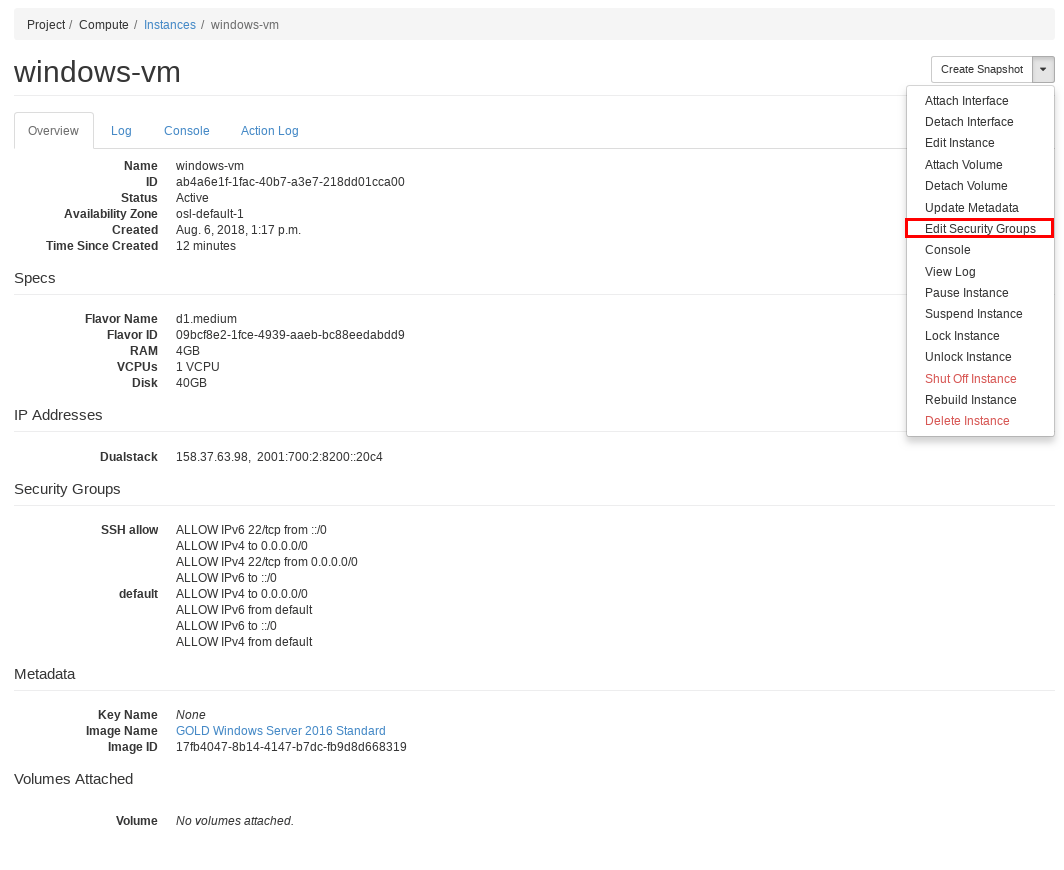
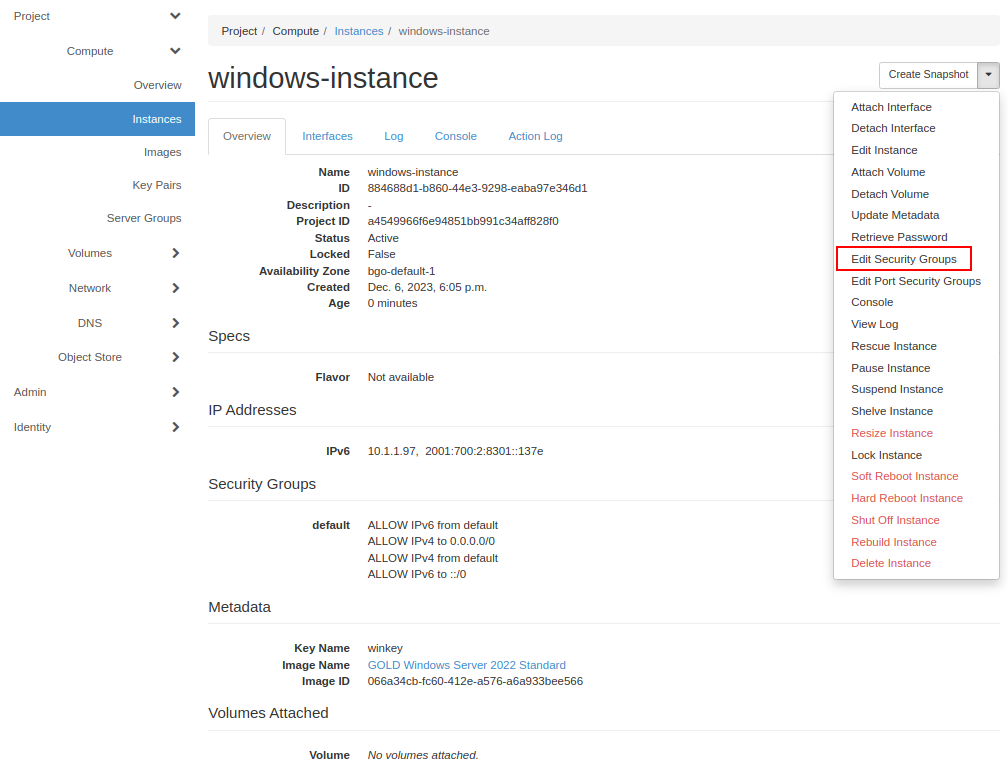
update images for windows server creation

diff --git a/docs/create-windows-machine.rst b/docs/create-windows-machine.rst
@@ -80,7 +80,7 @@ keep in mind when considering running Windows in NREC:
 
 * The NREC platform supports Windows Server Standard Edition
   only. If you need other variants like the Core Edition, please let
-  us know.
+  us know. For supported windows versions, see :doc:`gold-image`
 
 .. # 
 .. # Supported Windows versions
@@ -132,7 +132,7 @@ When finished with this tab, select the next, "Source":
 **Select Boot Source** should be left at "Image", which is the
 default. In this case, the virtual machine will boot from a standard
 cloud image. When selecting this option, you can choose from a list of
-images. In our example, we have selected "GOLD Windows Server 2016 Standard".
+images. In our example, we have selected "GOLD Windows Server 2022 Standard".
 
 When finished with this tab, select the next, "Flavor":
 
@@ -142,7 +142,7 @@ When finished with this tab, select the next, "Flavor":
 
 This is where you select the flavor for the virtual machine, i.e. a
 pre-defined set of compute resources. In our example, we've selected
-the "win.small" flavor, which is just enough to run our Windows instance. By
+the "win.medium" flavor, which is enough to run our Windows instance. By
 default, you don't have access to this flavor. Ask in your project request, or
 post a support case.
 
@@ -184,14 +184,25 @@ Select the "Key Pair" tab:
    :alt: Dashboard - Launch instance - Key Pair
 
 Here, choose a SSH keypair you want to assign to this virtual
-machine for password retrieval. In this example, we have created a new
-key pair, and we have downloaded the .pem-file to our local computer.
+machine for password retrieval. In this example, we have created a new SSH
+key pair, and we have downloaded the .pem-file to our local computer, naming
+the private key ``windowskey.pem``.
+
+Optionally, you may specify a one shot configuration to be executed when
+the instance starts for the first time. In this example we want to execute a
+simple powershell script.
+
+.. image:: images/dashboard-create-windows-05-conf.png
+   :align: center
+   :alt: Dashboard - Launch instance - Customization script
 
 When satisfied, clik "Launch Instance" to create your virtual machine.
 
 
 Allowing RDP access
 -------------------
+
+.. _Working with Security Groups: security-groups.html
 
 .. TIP::
    Starting with Windows Server 2019, a SSH server is automatically configured
@@ -219,9 +230,9 @@ Group". Click "Manage Rules" on your newly created security group, then
    :alt: Dashboard - Access and Security - Add Rule
 
 "RDP" is pre-defined in the system, so select that from the menu. In this
-example we limit access to a CIDR mask corresponding to the campus network for
-The University of Bergen. If you instead enter 0.0.0.0/0 or ::/0, that will translate
-to the entire Internet, granting global access. Click "Add".
+example we limit access to an IPv4 CIDR mask corresponding to the campus network for
+The University of Bergen. Click "Add". Please refer to `Working with Security Groups`_
+for more information on this important topic.
 
 .. IMPORTANT::
    Unlike linux instances, the Windows instances have both an internal "Windows
@@ -297,17 +308,17 @@ When you click "Decrypt Password", the password will be shown in the "Password" 
    .. code-block:: console
 
      $ openstack server list 
-     +--------------------------------------+-----------------+--------+----------------------+-----------------------------------+
-     | ID                                   | Name            | Status | Networks             | Image Name                        |
-     +--------------------------------------+-----------------+--------+----------------------+-----------------------------------+
-     | e88b1380-65a5-4975-9338-7213d8df47f2 | windows-machine | ACTIVE | public=158.37.63.197 | GOLD Windows Server 2016 Standard |
-     +--------------------------------------+-----------------+--------+----------------------+-----------------------------------+
+     +--------------------------------------+------------------+--------+----------------------+-----------------------------------+
+     | ID                                   | Name             | Status | Networks             | Image Name                        |
+     +--------------------------------------+------------------+--------+----------------------+-----------------------------------+
+     | e88b1380-65a5-4975-9338-7213d8df47f2 | windows-instance | ACTIVE | public=158.37.63.197 | GOLD Windows Server 2022 Standard |
+     +--------------------------------------+------------------+--------+----------------------+-----------------------------------+
    
    Now you can use the name or ID to retrieve your password:
 
    .. code-block:: console
 
-     $ nova get-password e88b1380-65a5-4975-9338-7213d8df47f2 /home/user/winkey.pem
+     $ nova get-password e88b1380-65a5-4975-9338-7213d8df47f2 /home/user/windowskey.pem
      ceq26oGb2xw8RQR3Gcdn
 
    If your private key is password protected, you will be asked for the password. If
@@ -332,7 +343,7 @@ do so via SSH. To set the password via SSH, use the following command:
 In the command above, replace:
 
 * ``<ssh-key>`` should be the private part of the ssh key used when
-  creating the Windows instance, e.g. "winkey.pem"
+  creating the Windows instance, e.g. "windowskey.pem"
 * ``<ip-address>`` is the IPv6 or IPv4 address of the instance
 * ``<password>`` is the new password
 
@@ -344,7 +355,7 @@ proceed to set the new password for the Admin account:
    $ pwmake 96
    iDyS+UqePIwoqOhariK0m
 
-   $ ssh -l Admin -i ~/.ssh/winkey.pem 2001:700:2:8201::2a3c net user Admin 'iDyS+UqePIwoqOhariK0m'
+   $ ssh -l Admin -i ~/.ssh/windowskey.pem 2001:700:2:8201::2a3c net user Admin 'iDyS+UqePIwoqOhariK0m'
    The command completed successfully.
 
 
